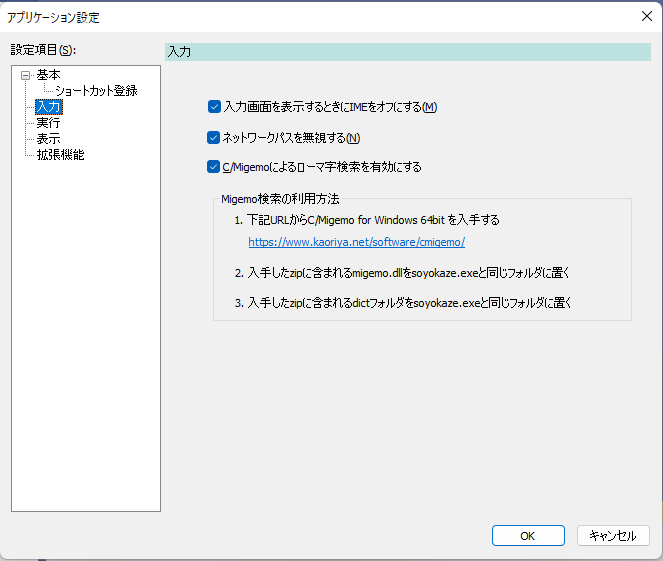
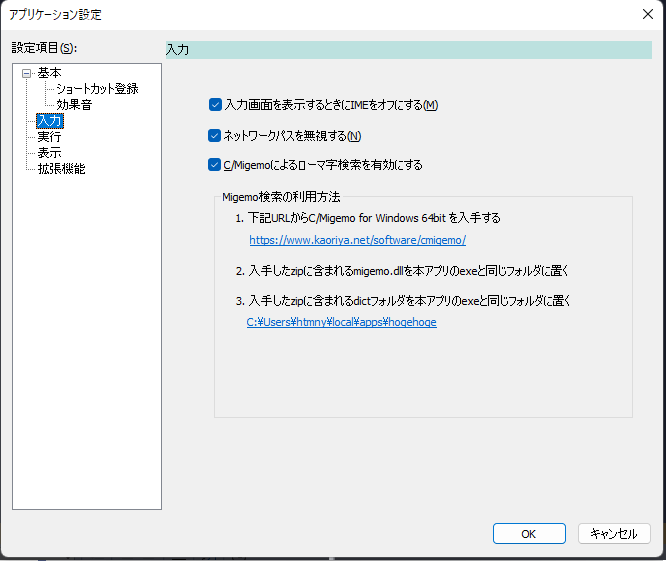
アプリ名回りの文言修正

Changed region(s): [[0.0, 0.0, 1.0, 1.0], [0.3318, 0.3333, 0.8748, 0.6061], [0.3017, 0.1515, 0.6637, 0.303]]

diff --git a/soyokaze/utility/WindowPosition.cpp b/soyokaze/utility/WindowPosition.cpp
@@ -41,13 +41,13 @@ WindowPosition::~WindowPosition()
 }
 
 /**
- * $B%b%K%?Ns5s%3!<%k%P%C%/4X?t(B
- * $B%&%$%s%I%&$,%b%K%?$K<}$^$k$+$NH=Dj$r9T$&(B
+ * モニタ列挙コールバック関数
+ * ウインドウがモニタに収まるかの判定を行う
  *
- * @param hm $B%b%K%?$N%O%s%I%k(B($B;H$o$J$$(B)
- * @param hdc $B%G%P%$%9%3%s%F%-%9%H(B($B;H$o$J$$(B)
- * @param rectMonitor $B%b%K%?NN0h(B
- * @param lp  $B%f!<%6%Q%i%a!<%?(B(std::pair<RECT,bool>)
+ * @param hm モニタのハンドル(使わない)
+ * @param hdc デバイスコンテキスト(使わない)
+ * @param rectMonitor モニタ領域
+ * @param lp  ユーザパラメータ(std::pair<RECT,bool>)
  */
 static BOOL CALLBACK MonitorCallback(HMONITOR hm, HDC hdc, LPRECT rectMonitor, LPARAM lp)
 {
@@ -56,7 +56,7 @@ static BOOL CALLBACK MonitorCallback(HMONITOR hm, HDC hdc, LPRECT rectMonitor, L
 	const RECT& rectWnd = param->first;
 	bool& isOutOfMonitor = param->second;
 
-	// $B%b%K%?NN0h$H%&%$%s%I%&NN0h$,8r:9$9$k$+$I$&$+$G<}$^$C$F$$$k$+$rH=CG$9$k(B
+	// モニタ領域とウインドウ領域が交差するかどうかで収まっているかを判断する
 	RECT rectIntersect;
 	if (IntersectRect(&rectIntersect, rectMonitor, &rectWnd)) {
 		isOutOfMonitor = false;
@@ -66,12 +66,12 @@ static BOOL CALLBACK MonitorCallback(HMONITOR hm, HDC hdc, LPRECT rectMonitor, L
 }
 
 /**
- *  $B@_Dj%U%!%$%k(B(Soyokaze.position)$B$N>pJs$+$i%&%$%s%I%&0LCV$rI|85$9$k(B
- *  $BA02s$N0LCV$rI|85$9$k$?$a$K;HMQ$9$k(B
- *  $BI|85$7$?7k2L$N%&%$%s%I%&0LCV$,%b%K%?!<NN0h$K<}$^$C$F$$$J$$>l9g$O(Bfalse$B$rJV$9(B
+ *  設定ファイル(Soyokaze.position)の情報からウインドウ位置を復元する
+ *  前回の位置を復元するために使用する
+ *  復元した結果のウインドウ位置がモニター領域に収まっていない場合はfalseを返す
  *
- *  @return true:$BI|85$7$?(B   false:$BI|85$7$J$+$C$?(B
- *  @param hwnd $BBP>]%&%$%s%I%&%O%s%I%k(B
+ *  @return true:復元した   false:復元しなかった
+ *  @param hwnd 対象ウインドウハンドル
  */
 bool WindowPosition::Restore(HWND hwnd)
 {
@@ -84,7 +84,7 @@ bool WindowPosition::Restore(HWND hwnd)
 
 
 	if (PathFileExists(path) == FALSE) {
-		// $B@_Dj%U%!%$%k$,B8:_$7$J$$>l9g$O5$5Y$a$K%G%U%)%k%H$N@_Dj%U%!%$%k$rN.MQ$9$k(B
+		// 設定ファイルが存在しない場合は気休めにデフォルトの設定ファイルを流用する
 		WindowPosition::GetFilePath(_T("Soyokaze"), path, MAX_PATH_NTFS);
 	}
 
@@ -100,7 +100,7 @@ bool WindowPosition::Restore(HWND hwnd)
 		return FALSE;
 	}
 
-	// $B3F%b%K%?NN0h$NCf$KG<$^$C$F$$$k$+$r%A%'%C%/(B
+	// 各モニタ領域の中に納まっているかをチェック
 	RECT rectWnd;
 	GetWindowRect(hwnd, &rectWnd);
 

diff --git a/soyokaze/gui/InputSettingDialog.cpp b/soyokaze/gui/InputSettingDialog.cpp
@@ -1,6 +1,7 @@
 #include "pch.h"
 #include "framework.h"
 #include "InputSettingDialog.h"
+#include "commands/builtin/MainDirCommand.h"
 #include "Settings.h"
 #include "resource.h"
 
@@ -8,6 +9,7 @@
 #define new DEBUG_NEW
 #endif
 
+using MainDirCommand = soyokaze::commands::builtin::MainDirCommand;
 
 InputSettingDialog::InputSettingDialog(CWnd* parentWnd) : 
 	SettingPage(_T("入力"), IDD_INPUTSETTING, parentWnd)
@@ -54,12 +56,24 @@ void InputSettingDialog::DoDataExchange(CDataExchange* pDX)
 
 BEGIN_MESSAGE_MAP(InputSettingDialog, SettingPage)
 	ON_NOTIFY(NM_CLICK, IDC_SYSLINK1, OnNotifyLinkOpen)
+	ON_NOTIFY(NM_CLICK, IDC_SYSLINK_APPDIR, OnNotifyLinkOpen)
 END_MESSAGE_MAP()
 
 
 BOOL InputSettingDialog::OnInitDialog()
 {
 	__super::OnInitDialog();
+
+	CWnd* link2 = GetDlgItem(IDC_SYSLINK_APPDIR);
+	ASSERT(link2);
+	CString str;
+	 link2->GetWindowText(str);
+
+	TCHAR appDir[MAX_PATH];
+	GetModuleFileName(nullptr, appDir, MAX_PATH_NTFS);
+	PathRemoveFileSpec(appDir);
+	str.Replace(_T("$APPDIR"), appDir);
+	link2->SetWindowText(str);
 
 	UpdateStatus();
 	UpdateData(FALSE);
@@ -87,7 +101,14 @@ void InputSettingDialog::OnNotifyLinkOpen(
 {
 	NMLINK* linkPtr = (NMLINK*)pNMHDR;
 
-	ShellExecute(0, _T("open"), linkPtr->item.szUrl,  0, 0,SW_NORMAL);
+	if (linkPtr->hdr.idFrom == IDC_SYSLINK_APPDIR) {
+		soyokaze::core::CommandParameter param;
+		MainDirCommand cmd(_T("tmp"));
+		cmd.Execute(param);
+	}
+	else {
+		ShellExecute(0, _T("open"), linkPtr->item.szUrl,  0, 0,SW_NORMAL);
+	}
 	*pResult = 0;
 }
 

diff --git a/soyokaze/resource.h b/soyokaze/resource.h
@@ -212,6 +212,8 @@
 #define IDC_SYSLINK1                    1056
 #define IDC_BUTTON_SHORTCUT             1057
 #define IDC_CHECK_KEEPTEXTWHENDLGHIDE   1057
+#define IDC_SYSLINK3                    1057
+#define IDC_SYSLINK_APPDIR              1057
 #define IDC_SYSLINK2                    1058
 #define IDC_CHECK_SENDTO                1059
 #define IDC_STATIC_REMARK               1061
@@ -270,6 +272,8 @@
 #define IDC_EDIT_WIDTH                  1091
 #define IDC_EDIT_HEIGHT                 1092
 #define IDC_COMBO_ACTION                1093
+#define IDC_STATIC_HEADER               1094
+#define IDC_STATIC_APPNAME              1095
 
 // Next default values for new objects
 // 
@@ -277,7 +281,7 @@
 #ifndef APSTUDIO_READONLY_SYMBOLS
 #define _APS_NEXT_RESOURCE_VALUE        165
 #define _APS_NEXT_COMMAND_VALUE         32775
-#define _APS_NEXT_CONTROL_VALUE         1094
+#define _APS_NEXT_CONTROL_VALUE         1097
 #define _APS_NEXT_SYMED_VALUE           101
 #endif
 #endif

diff --git a/soyokaze/gui/AboutDlg.cpp b/soyokaze/gui/AboutDlg.cpp
@@ -1,5 +1,6 @@
 #include "pch.h"
 #include "framework.h"
+#include "AppName.h"
 #include "gui/AboutDlg.h"
 #include "resource.h"
 #include <vector>
@@ -37,6 +38,25 @@ END_MESSAGE_MAP()
 BOOL CAboutDlg::OnInitDialog()
 {
 	__super::OnInitDialog();
+
+	// 文字を置換
+	CString str;
+	GetWindowText(str);
+	str.Replace(_T("$APPNAME"), APPNAME);
+	SetWindowText(str);
+
+	CWnd* parts = GetDlgItem(IDC_STATIC_HEADER);
+	ASSERT(parts);
+	parts->GetWindowText(str);
+	str.Replace(_T("$APPNAME"), APPNAME);
+	parts->SetWindowText(str);
+
+	parts = GetDlgItem(IDC_STATIC_APPNAME);
+	ASSERT(parts);
+	parts->GetWindowText(str);
+	str.Replace(_T("$APPNAME"), APPNAME);
+	parts->SetWindowText(str);
+
 
 	// バージョン情報を取得
 	TCHAR szModulePath[65536];

diff --git a/soyokaze/utility/AppProfile.cpp b/soyokaze/utility/AppProfile.cpp
@@ -17,8 +17,8 @@
 //! 設定情報作成用のフォルダをつくる
 bool CAppProfile::CreateProfileDirectory()
 {
-	TCHAR path[1024];
-	GetDirPath(path, 1024);
+	TCHAR path[MAX_PATH_NTFS];
+	GetDirPath(path, MAX_PATH_NTFS);
 	if (PathIsDirectory(path)) {
 		return true;
 	}
@@ -36,8 +36,8 @@ const TCHAR* CAppProfile::GetDirPath(TCHAR* path, size_t len)
 #ifndef SOYOKAZE_PORTABLE
 	// 非ポータブル版は ~/.soyokaze に設定を保存する
 
-	size_t buflen = 1024;
-	TCHAR buff[1024];
+	size_t buflen = MAX_PATH_NTFS;
+	TCHAR buff[MAX_PATH_NTFS];
 	_tgetenv_s(&buflen, buff, _T("USERPROFILE"));
 
 	_tcscpy_s(path, len, buff);

diff --git a/soyokaze/HotKeyAttribute.cpp b/soyokaze/HotKeyAttribute.cpp
@@ -272,7 +272,7 @@ bool HOTKEY_ATTR::GetAccel(ACCEL& accel) const
  */
 bool HOTKEY_ATTR::TryRegister(HWND targetWnd) const
 {
-	// 現在Soyokazeが使用中のキーの場合はtrueを返す
+	// アプリが使用中のキーの場合はtrueを返す
 	auto pref = AppPreference::Get();
 	if (pref->GetVirtualKeyCode() == GetVKCode() && pref->GetModifiers() == GetModifiers()) {
 		return true;

diff --git a/soyokaze/Soyokaze.cpp b/soyokaze/Soyokaze.cpp
@@ -173,7 +173,7 @@ BOOL CSoyokazeApp::InitSecondInstance()
 }
 
 /**
- * 先行するSoyokazeプロセスが存在するか?
+ * 先行するアプリのプロセスが存在するか?
  * @return true: 存在する  false: 存在しない
  */
 bool CSoyokazeApp::SoyokazeProcessExists()

diff --git a/doc/help.md b/doc/help.md
@@ -64,7 +64,7 @@ Windows環境で動作する。以下の環境で動作確認済
 
 ### バージョンアップ
 
-1. `Soyokaze`を実行している場合は終了する
+1. 本アプリを実行している場合は終了する
 1. `soyokaze.exe`を置いたフォルダ内のファイルをすべて上書きする
 
 アプリケーションの設定は`C:\Users\(ユーザ名)\.soyokaze`に保存される
@@ -81,7 +81,7 @@ Windows環境で動作する。以下の環境で動作確認済
 
 ## コマンドの登録方法
 
-`Soyokaze`では以下の方法でコマンドを登録することができる
+本アプリでは以下の方法でコマンドを登録することができる
 
 - [`new`コマンドで登録する](#newコマンドで登録する)
 - [`registwin`コマンドで登録する](#registwinコマンドで登録する)
@@ -169,7 +169,7 @@ Google検索やWikipediaなどのWeb検索を行うためのコマンド
 
 ### グループコマンド
 
-`Soyokaze`に登録済のコマンドを複数まとめて実行するためのコマンド
+本アプリに登録済のコマンドを複数まとめて実行するためのコマンド
 
 ![](../image/edit-groupcommand.png)  
 
@@ -257,7 +257,7 @@ Google検索やWikipediaなどのWeb検索を行うためのコマンド
 
 ### キーワードマネージャ
 
-`Soyokaze`に登録したコマンドの管理(追加/編集/削除)をするための画面。
+本アプリに登録したコマンドの管理(追加/編集/削除)をするための画面。
 
 下記のいずれかの操作でキーワードマネージャーを表示することができる。
 
@@ -306,17 +306,17 @@ Google検索やWikipediaなどのWeb検索を行うためのコマンド
 ![](../image/setting2.png)
 
 - `「送る」から登録できるようにする`
-  - チェックすると、`Soyokaze`にコマンドを登録するためのメニューが、エクスプローラのコンテキストメニューの「送る」に追加される
+  - チェックすると、本アプリにコマンドを登録するためのメニューが、エクスプローラのコンテキストメニューの「送る」に追加される
 ![](../image/sendto.png)
 
 - `スタートメニューに登録する`
-  - チェックすると、スタートメニューに`Soyokaze`を起動するためのメニューが登録される
+  - チェックすると、スタートメニューに本アプリを起動するためのメニューが登録される
 
 - `デスクトップに登録する`
-  - チェックすると、デスクトップに`Soyokaze`を起動するためのショートカットが配置される
+  - チェックすると、デスクトップに本アプリを起動するためのショートカットが配置される
 
  - `スタートアップに登録する`
-  - チェックすると、Windowsにログオン(サインイン)した後に自動で`Soyokaze`を起動する
+  - チェックすると、Windowsにログオン(サインイン)した後に自動で本アプリを起動する
 
 - `作成したショートカットをすべて削除する`
   - 上記で作成したショートカットをすべて削除する
@@ -345,7 +345,7 @@ mp3ファイルのみ指定可能(他の音声ファイルには非対応)
   - チェックすると、入力画面を表示したタイミングでIMEをオフにする
 
 - `ネットワークパスを無視する`
-  - チェックすると、`\\(コンピュータ名)`で始まるパスを`Soyokaze`では開かないようにする
+  - チェックすると、`\\(コンピュータ名)`で始まるパスを本アプリでは開かないようにする
     - 環境によっては、ネットワークパスの情報を参照したときに数十秒ほど固まることがあるため
 
 - `C/Migemoによるローマ字検索を有効にする`
@@ -354,7 +354,7 @@ mp3ファイルのみ指定可能(他の音声ファイルには非対応)
     - 配布元(上記リンク先)からライブラリを入手し、配置する必要がある
   - 下記のような構成になるように配置する。
 ```
-Soyokaze配置ディレクトリ/
+アプリ配置ディレクトリ/
     soyokaze.exe
     dict/
       utf-8/    ※ dictディレクトリ内にあるutf-8の方の辞書を参照する
@@ -772,7 +772,7 @@ Soyokaze配置ディレクトリ/
 
 ## タスクトレイ
 
-`Soyokaze`を起動すると、タスクトレイにアイコンが表示される  
+本アプリを起動すると、タスクトレイにアイコンが表示される  
 ↓  
 ![](../image/tasktray-icon.png)
 
@@ -787,7 +787,7 @@ Soyokaze配置ディレクトリ/
 - `キーワードマネージャ`
   - キーワードマネージャを表示する
 - `設定フォルダを開く`
-  - `Soyokaze`のユーザ設定が保存されたフォルダをひらく
+  - 本アプリのユーザ設定が保存されたフォルダをひらく
 - `ヘルプ`
   - このファイルを開く
 - `バージョン情報`
@@ -799,7 +799,7 @@ Soyokaze配置ディレクトリ/
 
 ### コマンドとして登録していなくても実行できる機能
 
-`Soyokaze`の[基本的な使い方](#基本的な使い方)としては、登録したコマンドをキーワードで入力して呼び出して使用するが、
+本アプリの[基本的な使い方](#基本的な使い方)としては、登録したコマンドをキーワードで入力して呼び出して使用するが、
 コマンドとして登録していなくても使える機能がある。
 
 - URLを開く
@@ -996,13 +996,13 @@ Edge/Chromeのブックマークに対応している。
 
 ## システムコマンド一覧
 
-システムコマンドとは、`Soyokaze`に最初から登録済のキーワード
+システムコマンドとは、本アプリに最初から登録済のキーワード
 
 削除はできない。
 
 ### cd
 
-`Soyokaze`のカレントディレクトリを変更する
+実行中のアプリプロセスの現在ディレクトリを変更する
 
 ### edit
 
@@ -1010,11 +1010,11 @@ Edge/Chromeのブックマークに対応している。
 
 ### exit
 
-`Soyokaze`を終了する
+本アプリを終了する
 
 ### maindir
 
-実行中の`soyokaze.exe`のあるフォルダを表示する
+本アプリのexeが置かれているフォルダを表示する
 
 ###  manager
 
@@ -1066,8 +1066,8 @@ Edge/Chromeのブックマークに対応している。
 - _ファイルパス_
   - そのファイルを登録する(コマンド登録画面を表示する)
 
-なお、上記のコマンドラインオプションによる実行は、事前に`Soyokaze`が起動している状態で行う必要がある  
-(`Soyokaze`が起動していない状態で実行した場合、単に`Soyokaze`が起動するだけ)
+なお、上記のコマンドラインオプションによる実行は、事前に本アプリが起動している状態で行う必要がある  
+(起動していない状態で実行した場合、単にアプリが起動するだけ)
 
 ## 取り扱い種別、ライセンス
 
